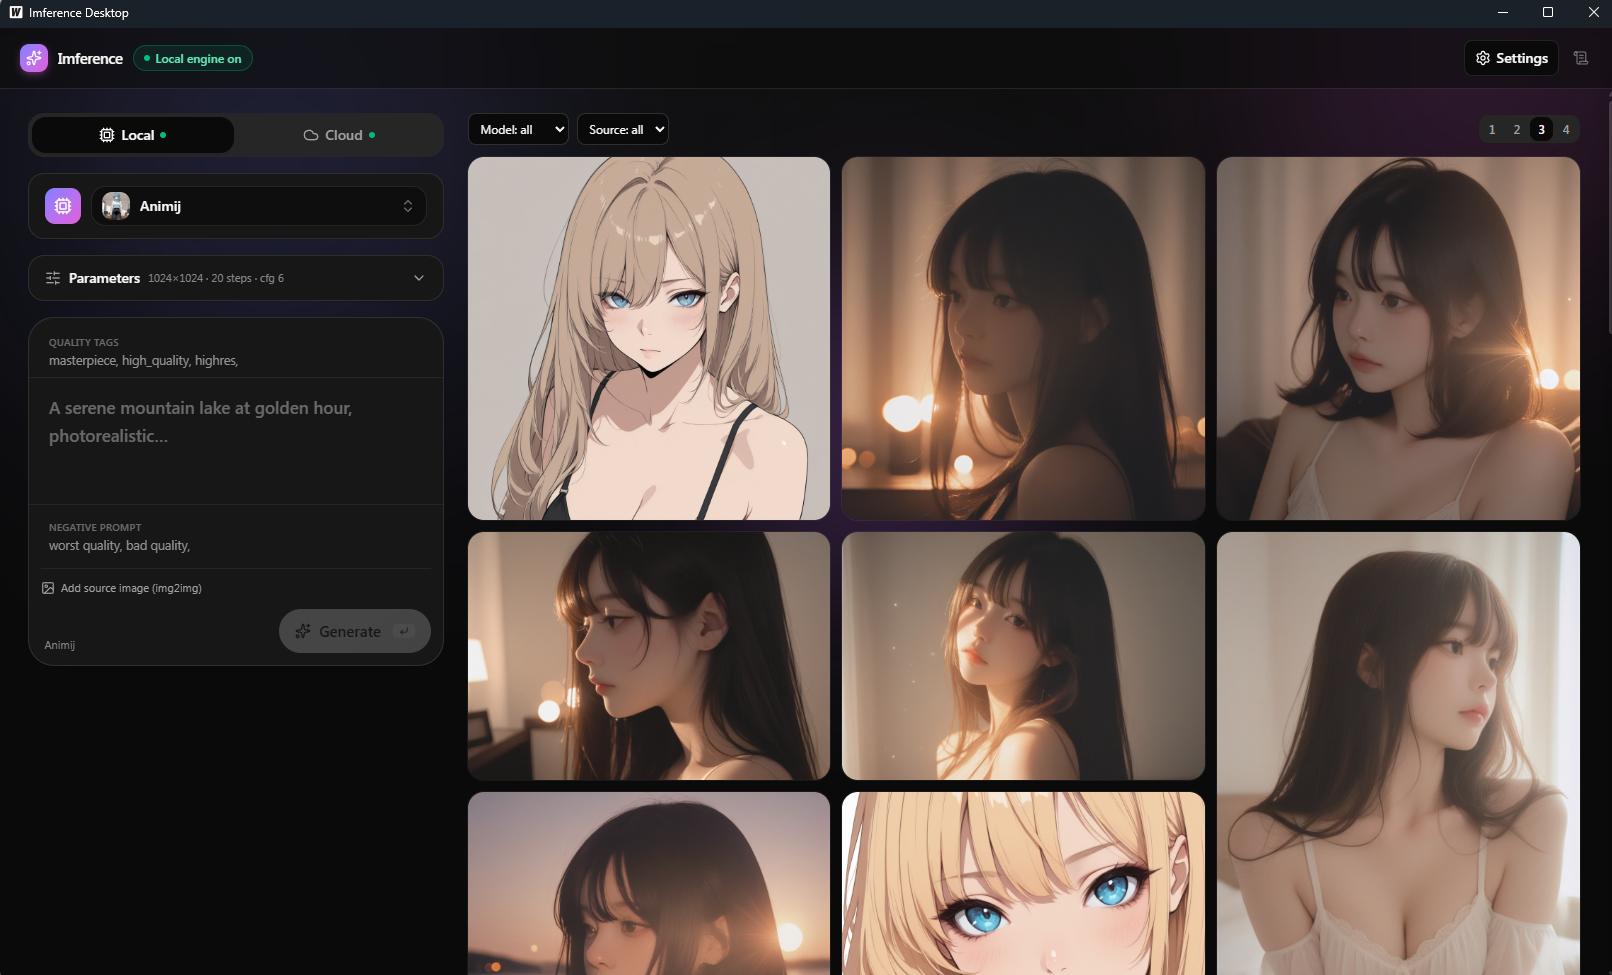
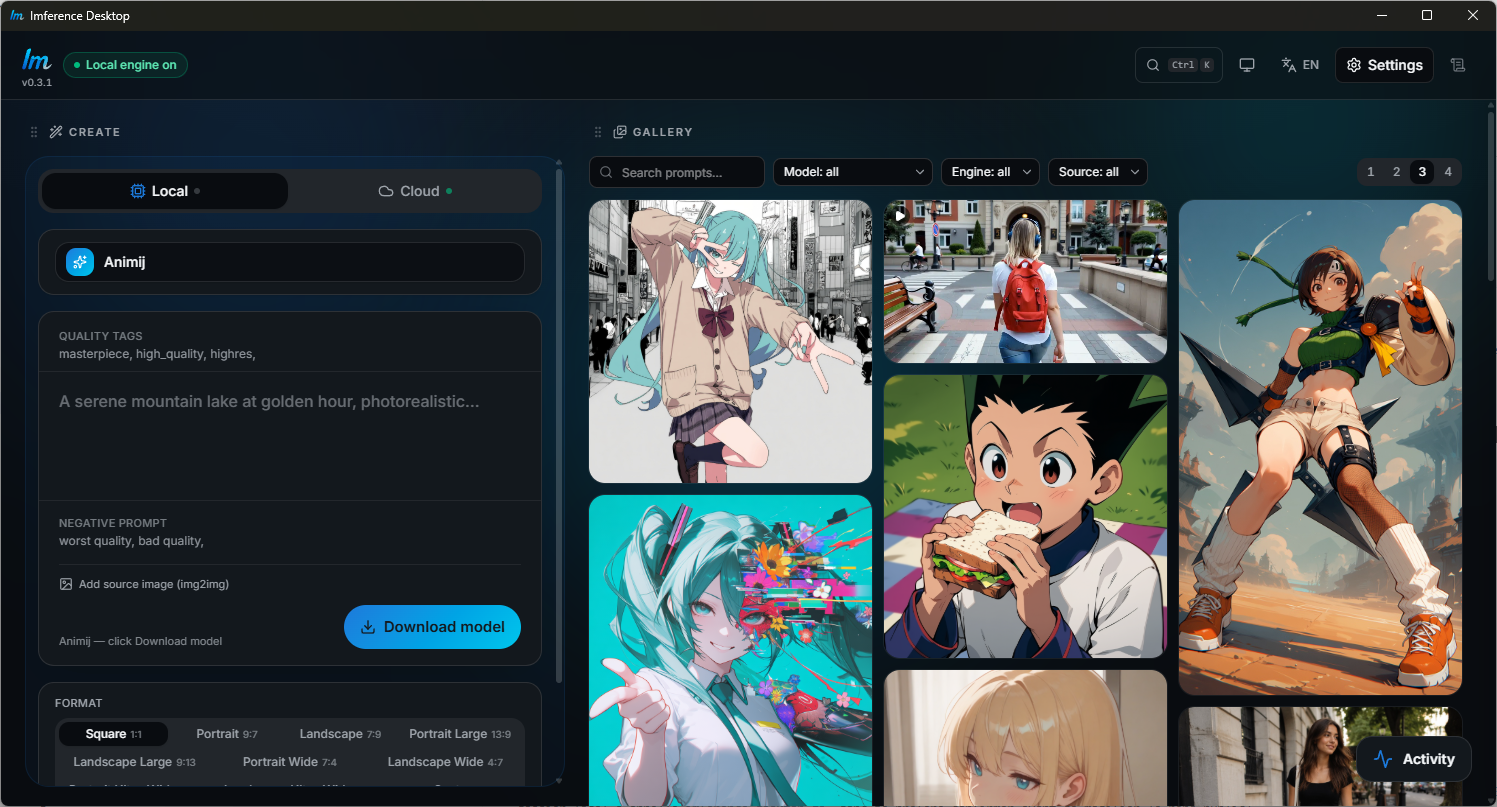
Update README.md

diff --git a/README.zh-CN.md b/README.zh-CN.md
@@ -4,7 +4,7 @@
 
 # Imference Desktop
 
-**在自己的 GPU 上生成 AI 图像 — 也可用云端。一个应用搞定。**
+**生成 AI 图像与视频 — 用自己的 GPU，或用云端。一个应用搞定。**
 
 免费 · 无订阅 · Windows & macOS
 
@@ -13,7 +13,7 @@
 
 [English](README.md) · **简体中文**
 
-<img src="docs/screenshots/hero.png" alt="Imference Desktop — 生成界面" width="800" />
+<img src="docs/screenshots/hero_zn.png" alt="Imference Desktop — 生成界面" width="800" />
 
 </div>
 
@@ -40,19 +40,25 @@
 
 ## 为什么选择 Imference Desktop
 
-- 🖥 **本地生成，每张图 0 元** — 在你自己的 GPU 上直接运行 **SDXL** 和
-  **Z-Image**。提示词和图片永远不会离开你的电脑。
-- ☁ **需要时随时切换云端** — 没有 GPU 或性能不足？在同一界面用
-  [imference.com](https://imference.com) 云端生成。支持 **API 密钥（积分）**
-  或 **x402（Base 链 USDC）** 付费 — x402 方式甚至无需注册账号。
+- ⚡ **一键安装，开箱即用** — 应用会为你安装一个隔离的推理引擎（不影响系统
+  Python），自动检测 GPU，并按需启动 / 停止引擎。无需命令行，无需折腾 CUDA。
+- 🖥 **本地生成，每张图 0 元** — 在你自己的 GPU 上运行**七大模型家族**：
+  **SDXL、SD 1.5、Z-Image、FLUX、Chroma、Qwen-Image 和 Anima**。
+  提示词和图片永远不会离开你的电脑。
+- 🧩 **预配置模型，零设置** — 从精选目录里选一个模型点击生成即可：权重
+  **自动下载**，每个模型都已预调好参数（步数、CFG、分辨率、质量标签、
+  负面提示词），第一张图就是对的效果。
 - 📦 **自带模型** — 加载任意本地 `.safetensors` 模型文件（例如从 Civitai
-  下载的），无需依赖目录。文件在原位置直接使用 — 不会被复制或上传。
-- ⚡ **一键安装本地引擎** — 应用会为你安装一个隔离的推理引擎（不影响系统
-  Python），并按需启动 / 停止。模型在首次使用时自动下载（每个约 6–7 GB）。
-- 🎛 **真正的参数控制** — 每个模型自带目录参数：画幅、步数、CFG、种子、
-  质量标签、负面提示词，还支持**图生图**。
-- 🗂 **记住一切的图库** — 每次生成都会连同提示词、模型和参数一起保存。
-  支持筛选、搜索和全屏查看。
+  下载的），选好所属家族即可。文件在原位置直接使用 — 不会被复制或上传。
+- ☁ **需要时随时切换云端** — 没有 GPU 或性能不足？在同一界面用
+  [imference.com](https://imference.com) 云端生成图像和**视频**。支持
+  **API 密钥（积分）** 或 **x402（Base 链 USDC）** 付费 — x402 方式甚至
+  无需注册账号。
+- 🎛 **真正的参数控制，界面简洁** — 画幅、步数、CFG、种子、质量标签、
+  负面提示词，还支持**图生图**。生成任务可排队，甚至可以在生成中途切换
+  模型 — 应用会先完成当前这张图。
+- 🗂 **记住一切的图库** — 每张图片和视频都会连同提示词、模型和参数一起
+  保存。支持筛选、搜索和全屏查看。
 
 ## 系统要求
 

diff --git a/README.md b/README.md
@@ -4,7 +4,7 @@
 
 # Imference Desktop
 
-**AI image generation on your own GPU — or in the cloud. One app.**
+**Generate AI images and videos — on your own GPU or in the cloud. One app.**
 
 Free · No subscription · Windows & macOS
 
@@ -42,24 +42,29 @@ available; code signing and silent in-app auto-update are on the roadmap.
 
 ## Why Imference Desktop
 
-- 🖥 **Local generation, $0 per image** — run **SDXL** and **Z-Image** directly
-  on your GPU. Your prompts and images never leave your machine.
-- ☁ **Cloud when you want it** — no GPU or a weak one? Generate on
-  [imference.com](https://imference.com) from the same interface. Pay with an
-  **API key (credits)** or **x402 (USDC on Base)** — the x402 route needs no
-  account at all.
+- ⚡ **One-click setup** — the app installs an isolated inference engine for
+  you (nothing touches your system Python), detects your GPU, and starts and
+  stops the engine on demand. No terminal, no CUDA wrestling.
+- 🖥 **Local generation, $0 per image** — run **seven model families** on your
+  own GPU: **SDXL, SD 1.5, Z-Image, FLUX, Chroma, Qwen-Image and Anima**. Your
+  prompts and images never leave your machine.
+- 🧩 **Preconfigured models, zero setup** — pick a model from the curated
+  catalog and hit Generate: the weights **download automatically**, and every
+  model ships pre-tuned (steps, CFG, resolutions, quality tags, negative
+  prompt) so your first image already looks right.
 - 📦 **Bring your own model** — load any local `.safetensors` checkpoint
-  (e.g. downloaded from Civitai), no catalog required. The file is used in
+  (e.g. downloaded from Civitai) and pick its family. The file is used in
   place — nothing is copied or uploaded.
-- ⚡ **One-click local engine** — the app installs an isolated inference engine
-  for you (nothing touches your system Python) and starts/stops it on demand.
-  Models download automatically when first used (~6–7 GB each).
-- 🎛 **Real controls** — per-model parameters straight from the catalog:
-  format, steps, CFG, seed, quality tags, negative prompt. Plus
-  **image-to-image**.
-- 🗂 **A gallery that remembers everything** — every generation is saved with
-  its prompt, model and settings. Filter, search, and review in a fullscreen
-  viewer.
+- ☁ **Cloud when you want it** — no GPU or a weak one? Generate images and
+  **video** on [imference.com](https://imference.com) from the same interface.
+  Pay with an **API key (credits)** or **x402 (USDC on Base)** — the x402
+  route needs no account at all.
+- 🎛 **Real controls, simple interface** — format, steps, CFG, seed, quality
+  tags, negative prompt, **image-to-image**. Stack generations in a queue,
+  and even switch models mid-run — the app finishes the current image first.
+- 🗂 **A gallery that remembers everything** — every image and video is saved
+  with its prompt, model and settings. Filter, search, and review in a
+  fullscreen viewer.
 
 <div align="center">
 
